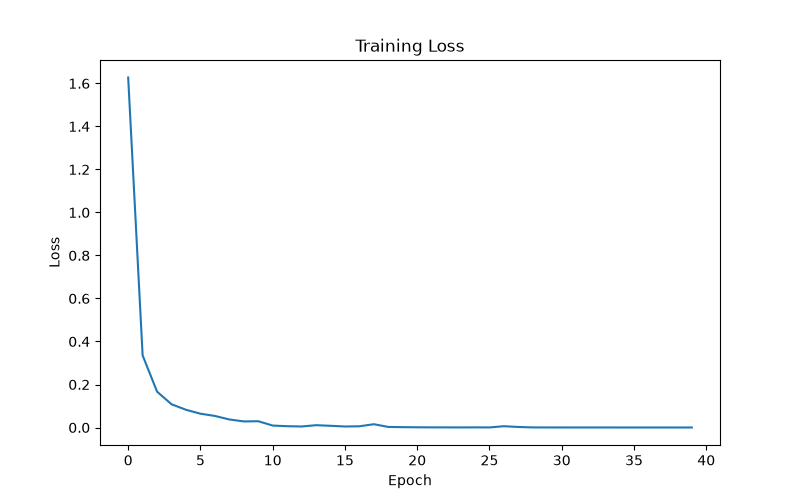
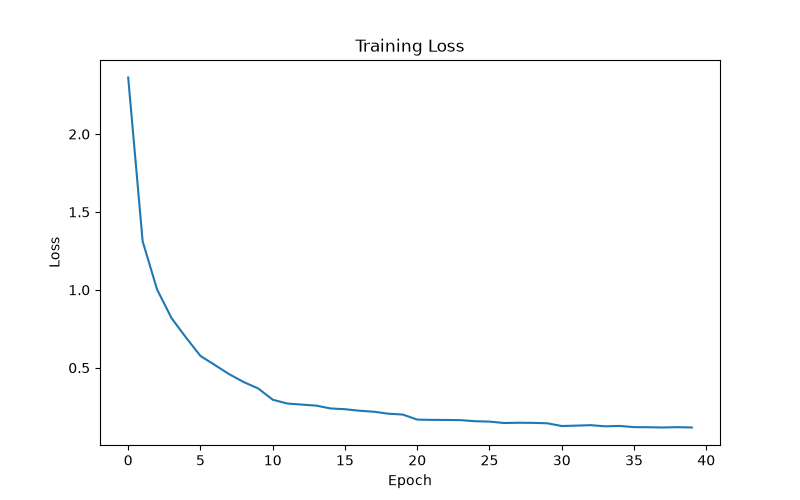
Improve preprocessing and retrain model with RGB images

diff --git a/src/train.py b/src/train.py
@@ -78,6 +78,11 @@ for class_id in classes:
         if img is None:
             continue
 
+        img = cv2.cvtColor(
+            img,
+            cv2.COLOR_BGR2RGB
+        )
+
         img = cv2.resize(
             img,
             (32, 32)